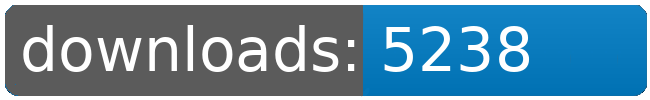
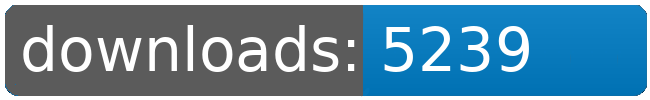
dl log written

Changed region(s): [[0.7692, 0.27, 0.8308, 0.72]]

diff --git a/README.md b/README.md
@@ -21,8 +21,8 @@
 		<td>5175</td>
 		<td>5203</td>
 		<td>5228</td>
-		<td>5238</td>
-		<td>+ 10</td>
+		<td>5239</td>
+		<td>+ 11</td>
 	</tr>
 	<tr>
 		<td>Factory.Outlets</td>
@@ -109,8 +109,8 @@
 		<td></td>
 		<td></td>
 		<td></td>
-		<td>42086</td>
-		<td>68</td>
+		<td>42087</td>
+		<td>69</td>
 	</tr>
 </table>
 </sub></sup>
@@ -157,8 +157,8 @@
 		<td>5175</td>
 		<td>5203</td>
 		<td>5228</td>
-		<td>5238</td>
-		<td>+ 10</td>
+		<td>5239</td>
+		<td>+ 11</td>
 	</tr>
 	<tr>
 		<td>Korunak.Defense.Drones</td>
@@ -223,8 +223,8 @@
 		<td></td>
 		<td></td>
 		<td></td>
-		<td>42086</td>
-		<td>68</td>
+		<td>42087</td>
+		<td>69</td>
 	</tr>
 </table>
 </sub></sup>
